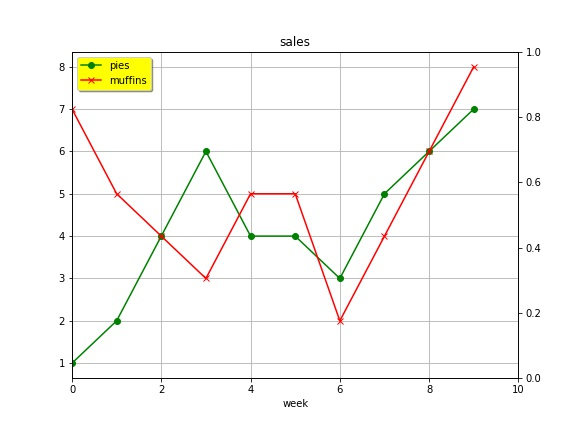
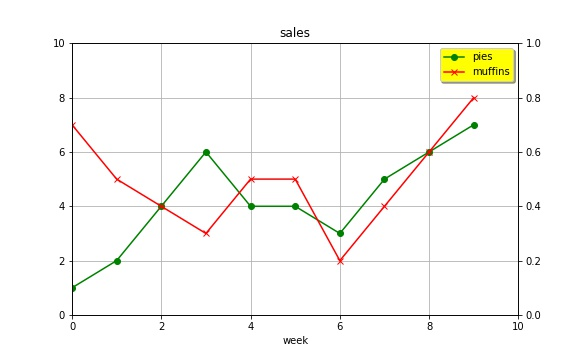
0.60

diff --git a/matplotlib/02_multiplot_test.py b/matplotlib/02_multiplot_test.py
@@ -1,6 +1,5 @@
 # Demonstrates plotting multiple graphs on the same figure. This is not the
 # same as plotting multiple datasets on the same graph.
-import numpy as np
 import pandas as pd
 import matplotlib.pyplot as plt
 import sklearn.datasets as skld
@@ -21,14 +20,16 @@ for i, col in enumerate(df.columns):
 plt.show()
 plt.clf()
 
-# ax is automatically plt.subplot(111) if no arguments are given.
+# The second way is to use plt.subplot(int). plt.subplot(int) accepts either a
+# 3 digit int or 3 separate ints which represent row, column and index of the
+# specific subplot. Index goes from left to right, then up to down.
+# ax is by default plt.subplot(111) in plt.subplots() if no arguments are
+# given.
 fig, ax = plt.subplots(figsize=(16, 10))
-# plt.subplot(int) accepts either a 3 digit int or 3 separate ints which
-# represent row, column and index of the specific subplot. Index goes from
-# left to right, then up to down.
 ax = plt.subplot(111)
 ax.hist(df['sepal length (cm)'])
-# The second way is to use fig.add_subplot(self, *args, **kwargs), which does
+
+# The third way is to use fig.add_subplot(self, *args, **kwargs), which does
 # not override the current figure.
 ax2 = fig.add_subplot(221)
 ax2.hist(df['sepal width (cm)'], color='r')

diff --git a/matplotlib/01_basics_test.py b/matplotlib/01_basics_test.py
@@ -59,11 +59,19 @@ ax.legend(labels=['pies', 'muffins'], loc='best', facecolor='yellow', shadow=Tru
 # ax.set_title(self, label, fontdict=None, loc='center', pad=None, **kwargs)
 ax.set_title('sales')
 # ax.grid(self, b=None, which='major', axis='both', **kwargs)
-# If no arguments are passed, turns on grid lines.
+# If no arguments are passed, turns on grid lines. Common arguments include:
+# c=color or color=color
+# ls=fmt or linestyle=fmt
+# lw=float or linewidth=float
 ax.grid()
-# ax.set_xlim(self, left=None, right=None, emit=True, auto=False, *, xmin=None, xmax=None)
+# ax.set_xlim(self, left=None, right=None, emit=True, auto=False, *, xmin=None,
+# xmax=None)
 ax.set_xlim(0, 10)
-# ax.set_xlabel(self, xlabel, fontdict=None, labelpad=None, **kwargs)[source]
+# ax.yticks(ticks=None, labels=None, **kwargs)
+# You can set the individual ticks instead of setting the axis limit, but it
+# needs more arguments. Passing an empty list deletes all the ticks.
+ax.set_yticks(range(0, 11, 2))
+# ax.set_xlabel(self, xlabel, fontdict=None, labelpad=None, **kwargs)
 ax.set_xlabel('week')
 
 # Creates axes on the right side of the figure, for no good reason in this case.
